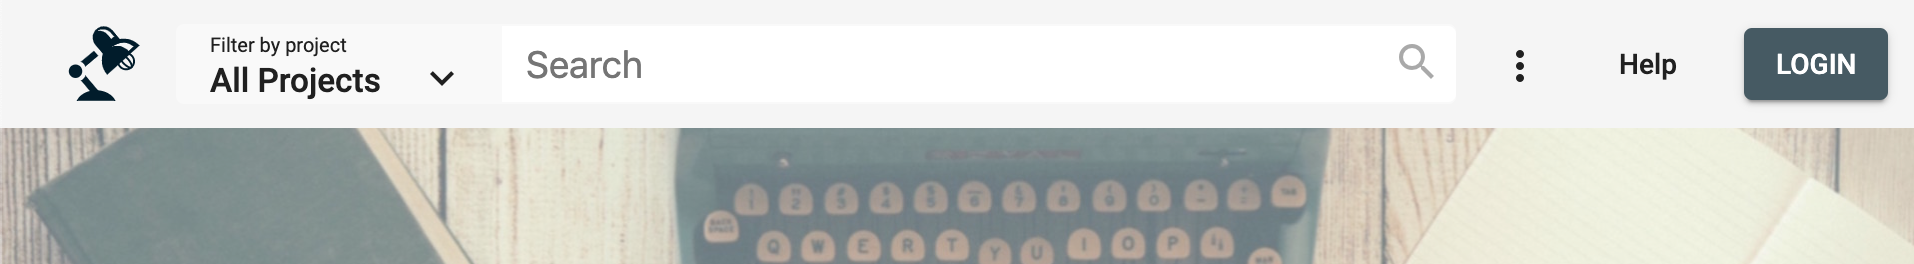
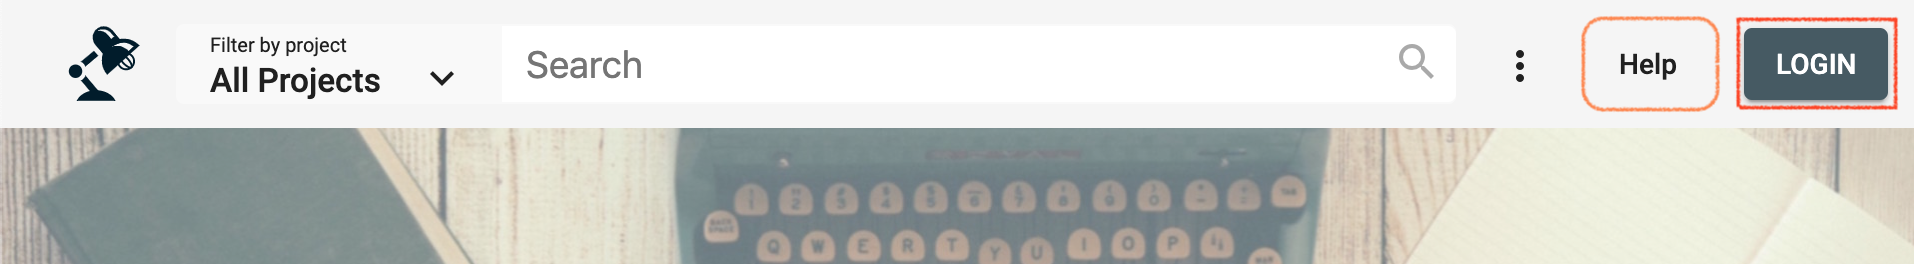
docs (user guide): Add screen shots, remove anchors, improve text

Changed region(s): [[0.8323, 0.0606, 1.0, 0.4242], [0.8015, 0.3636, 0.8323, 0.3939]]

diff --git a/docs/user-guide/project.md b/docs/user-guide/project.md
@@ -1,17 +1,33 @@
 # Project Management
 
-As a project administrator, you can define your project, add your team members, create permission groups and, as most important, define the data model of your project (ontology).
+As a project administrator and/or system administrator, you can define your project, add your team members, create permission groups and as most important, define the data model (ontology) and the lists of your project.
 
-## [Project](#project)
+![Project management available functionalities](../assets/images/knora-app/project-management-toolbar.png)*Only project admin and system admin have access to these functionalities, user members have not.*
+
+## Project
 In Knora Web App, the targeted projects are in particular research projects with a small to medium complexity, e.g. PhD research, pilot project, or proof of concept.
+
+Once you are logged in, the dashboard displays the list of your project(s). If you are project admin, you can edit the project information or remove (deactivate) your project from the project menu. Deactivated projects are stored in a list on your dashboard and they can be reactivated by project admin at any time. 
+
+![Project list and project menu](../assets/images/knora-app/project-list.png)*By clicking on the project name, you get access to the full project information.*
+
 System administrator can create your new research project. Essential information are required such as the project name, a short project description and institution information.
 
-![Create a new project](../assets/images/knora-app/project-create-new.png)
+![Create a new project](../assets/images/knora-app/project-create-new.png)<center>*Form to create a new project*</center>
 
-## [Collaboration](#collaboration)
-Add members to the project team and define their permissions roles: Who is able to edit or to see the data in the project? Data includes the research sources and their metadata. Permissions can be set for the entire project or for single metadata fields.
+## Collaboration
+&#9888; *WORK IN PROGRESS*
 
-## [Data model](#data-model)
+As system admin, you can add users as project member and define their permissions roles: Who is able to edit or to see the data in the project? Data includes the research sources and their metadata. Permissions can be set for the entire project or for single metadata fields. 
+
+A user menu with different actions is accessible for each member of the project (link to the right side of the user line). The admin can appoint another user as project admin, edit user's information, change user's password if forgotten, and remove a user.
+
+![Collaboration page](../assets/images/knora-app/project-collaboration.png)
+
+***Permissions for project admins to add new users as project member will be implemented soon.***
+
+
+## Data model
 &#9888; *NOT YET IMPLEMENTED* (only mockups are presented)
 
 The most important step in the project is the definition of the data model. Knora web app offers a tool to create data models easily. First, you have to know which data and sources you want to work with. The data model can be flexible and customizable. With Knora web app, you can comply with the FAIR data standard, but compliance is not required to analyze your data.
@@ -70,7 +86,7 @@ E.g., For the metadata "Photographer" in source type "Photograph", you should cr
 ![Data model editor 4: Manage connections between the source types.](../assets/images/knora-app/data-model-example.png)
 Data model editor 4: Manage connections between the source types.
 
-## [Lists](#lists)
+## Lists
 Projects often need to define lists or hierarchies of categories that can be assigned to many different sources.
 
 

diff --git a/docs/user-guide/data.md b/docs/user-guide/data.md
@@ -1,6 +1,6 @@
 # Data management
 
-Once your [data model](./project.md#data-model) is ready, you're able to add data. The Knora Web App offers several possibilities to add data, whether you are starting from scratch or importing data from another program.
+Once your [data model](/user-guide/project/#data-model) is ready, you're able to add data. The Knora Web App offers several possibilities to add data, whether you are starting from scratch or importing data from another program.
 
 ### Start from scratch
 
@@ -18,16 +18,16 @@ Create new source e.g. upload audio file of an interview.
 The workspace of the Knora Web App includes tools to connect different sources, even if they're not in the same project (linkage), to comment on a source and on their metadata fields (annotate), and to transcribe audio-visual material. These actions will generate more data and will help to find specific sources and their relations easily.
 It's possible to collect different sources and to store them in an individual collection. You can define more than one collection. You can share collections and invite other users to collaborate.
 
-## [Search and browse](#search-and-browse)
+## Search and browse
 
 
-### [Full-text search](#full-text-search)
+### Full-text search
 
 Full-text search performs queries including one or more terms or phrases, and returns data that matches search conditions. The asterisk * can be used as a wildcard symbol.
 
 <!-- ![Search 1: Simple full-text search with a selection to filter by project.](/assets/images/search-fulltext.png) -->
 
-### [Advanced search](#advanced-search)
+### Advanced search
 
 The advanced search allows you to filter by project, by source type, or by the metadata of source types. Each filter can be standalone or combined. The metadata field can be precisely filtered with criteria such as "contains", "is like", "equals to", "exists" or in case of a date value with "before" or "after".
 
@@ -39,7 +39,7 @@ Diagram 1: Photograph and Person are two sources, connected by metadata field "P
 ![Search 2: Advanced search offers many filter combinations and is a powerful search tool.](../assets/images/knora-app/search-advanced.png)
 Search 2: Advanced search offers many filter combinations and is a powerful search tool.
 
-### [Expert search](#expert-search)
+### Expert search
 
 The expert search can be more powerful than the advanced search, but requires knowing how to use the query language Gravsearch (based on SparQL and developed by the DaSCH team). With Gravsearch, expert users can build searches by combining text-related criteria with any other criteria.
 
@@ -75,7 +75,7 @@ Each column of the table corresponds to one metadata.
 ![Search result 3: An Excel-like table view to edit multiple sources at once.](../assets/images/knora-app/search-results-table.png)
 Search result 3: An Excel-like table view to edit multiple sources at once.
 
-## [Do research and work on your data](#work-with-data)
+## Do research and work on your data
 
 Once you have found the desired sources, you can (re)view them and annotate the source itself, the media file, or single metadata values. If you select more than one source, you can compare them in a side-by-side view, link them, edit them all at once, or save them in a collection. A collection is similar to a playlist in a music app or shopping basket in an online store.
 

diff --git a/docs/user-guide/index.md b/docs/user-guide/index.md
@@ -1,7 +1,7 @@
 # User Guide
 
 This is the documentation for the generic Knora web application of the Data and Service Center for Humanities DaSCH. You can reach the app on
-**[app2.dasch.swiss](https://app2.dasch.swiss)**
+**[app2.dasch.swiss](https://app2.dasch.swiss)**.
 
 ## Getting started
 
@@ -21,4 +21,4 @@ You can use the Knora Web App with restricted access as guest. Otherwise, you'll
 
 ## Help
 
-For any questions or help wanted, you can go to the help page, accessible from the Help button at the top of the page. Here, you can find links to the user guide, get more information about the DaSCH softwares, and get more support through different platform according to your requests.
+For any questions or help wanted, you can go to the help page, accessible from the Help button at the top right of the page (see screen shot above). Here, you can find links to the user guide, get more information about the DaSCH softwares, and get more support through different platform according to your requests.
